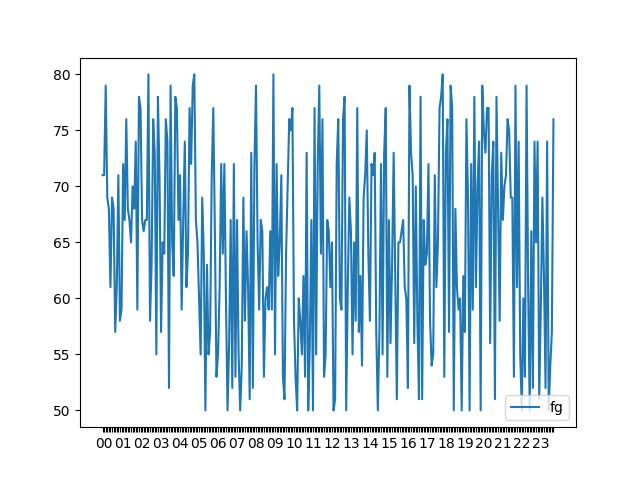
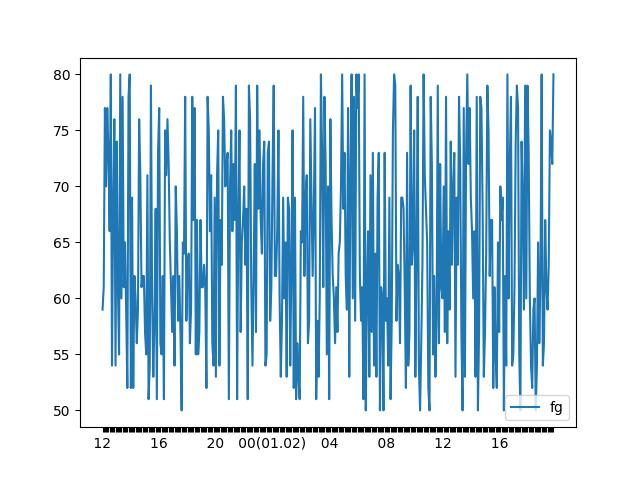
fgd

diff --git a/libr/tools.py b/libr/tools.py
@@ -249,13 +249,16 @@ class Grath:
         print("OneDay")
         print()
         print(self.data)
-        cnt=2
+        cnt=1
         for i in range(len(self.data[-1])):
-            if 0<self.data[-1][i].minute<=5:
-                self.dateGrath.append(" "*(cnt//2)+self.data[-1][i].strftime("%H")+" "*(cnt//2))
+            if 0<self.data[-1][i].minute<=5 and self.data[-1][i].hour%4==0:
+                if self.data[-1][i].hour!=0:
+                    self.dateGrath.append(" "*cnt+self.data[-1][i].strftime("%H")+" "*cnt)
+                else:
+                    self.dateGrath.append(" "*cnt+self.data[-1][i].strftime("%H(%m.%d)")+" "*cnt)
             else:
                 self.dateGrath.append(" "*cnt)
-                cnt+=2
+                cnt+=1
 
     def crGR(self):
         print()

diff --git a/DB-Picture.py b/DB-Picture.py
@@ -1,14 +1,15 @@
 from libr import tools
 #x=tools.GenerateData("2020;10;3;12;5;12",50,5)
 #x.generate()
-abc=tools.teplData("C:\\Users\\Nikita\\PycharmProjects\\greenHouseServer\\tepl2")
+abc=tools.teplData("C:\\Users\\Никита\\PycharmProjects\\greenHouseServer\\tepl2")
 ab=abc.readIncomingData()
 gr=tools.Grath(ab)
 gr.rotateD2()
 gr.tupleToString()
 gr.strToDt()
-gr.oneDay()
+gr.threeDays()
 gr.tupleToString()
+gr.crGR()
 #gr.strToDt()
 #gr.getMaxMinScopeDate()
 #gr.choseType()

diff --git a/GeneratedDataToBD.py b/GeneratedDataToBD.py
@@ -1,3 +1,3 @@
 from libr import tools
 x=tools.Use()
-use.checkFolder()
+x.checkFolder()
